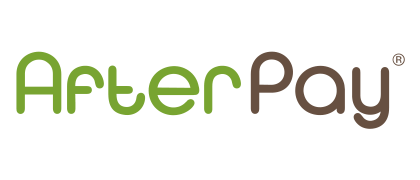
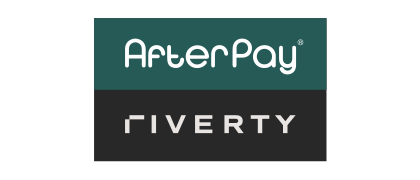
DAVAMS-539: Rebrand Afterpay - Riverty (#259)

diff --git a/src/catalog/controller/extension/payment/multisafepay.php b/src/catalog/controller/extension/payment/multisafepay.php
@@ -120,7 +120,47 @@ class ControllerExtensionPaymentMultiSafePay extends Controller {
     }
 
     /**
-     * Handles the confirm order form for Afterpay payment method
+     * Change the terms and conditions links for Riverty / Afterpay - Riverty payment
+     * according to the selected language and the billing country of the customer
+     *
+     * @phpcs:disabled ObjectCalisthenics.ControlStructures.NoElse
+     *
+     * @return string
+     */
+    public function afterPayGeoTerms() {
+        $terms = $this->language->get('entry_afterpay_terms');
+
+        if ($this->session->data['payment_address']['country_id']) {
+            $this->load->model('localisation/country');
+            $billing_country = $this->model_localisation_country->getCountry($this->session->data['payment_address']['country_id']);
+            $billing_code = strtolower($billing_country['iso_code_2']);
+            $language_code = strtolower($this->language->get('code'));
+
+            if (($billing_code === 'de') && (strpos($language_code, 'en') !== false)) {
+                $terms = str_replace('/nl_en/', '/de_en/', $terms);
+            } else if (($billing_code === 'at') && (strpos($language_code, 'de') !== false)) {
+                $terms = str_replace('/de_de/', '/at_de/', $terms);
+            } else if ($billing_code === 'at') {
+                $terms = str_replace('/nl_en/', '/at_en/', $terms);
+            } else if (($billing_code === 'ch') && (strpos($language_code, 'de') !== false)) {
+                $terms = str_replace('/de_de/', '/ch_de/', $terms);
+            } else if (($billing_code === 'ch') && (strpos($language_code, 'fr') !== false)) {
+                $terms = str_replace('/nl_en/', '/ch_fr/', $terms);
+            } else if ($billing_code === 'ch') {
+                $terms = str_replace('/nl_en/', '/ch_en/', $terms);
+            } else if (($billing_code === 'be') && (strpos($language_code, 'nl') !== false)) {
+                $terms = str_replace('/nl_nl/', '/be_nl/', $terms);
+            } else if (($billing_code === 'be') && (strpos($language_code, 'fr') !== false)) {
+                $terms = str_replace('/nl_en/', '/be_fr/', $terms);
+            } else if ($billing_code === 'be') {
+                $terms = str_replace('/nl_en/', '/be_en/', $terms);
+            }
+        }
+        return $terms;
+    }
+
+    /**
+     * Handles the confirm order form for Riverty / Afterpay - Riverty payment method
      */
     public function afterPay() {
         $data = $this->paymentMethodBase('AFTERPAY');
@@ -132,6 +172,8 @@ class ControllerExtensionPaymentMultiSafePay extends Controller {
                 'afterpay_terms' => true
 		    );
 	    }
+        $data['entry_afterpay_terms'] = $this->afterPayGeoTerms();
+
         return $this->multisafepay_version_control->getViewAccordingWithOcVersion($this->route . $this->view_extension_file, $data);
     }
 

diff --git a/src/catalog/controller/payment/multisafepay.php b/src/catalog/controller/payment/multisafepay.php
@@ -120,7 +120,47 @@ class ControllerExtensionPaymentMultiSafePay extends Controller {
     }
 
     /**
-     * Handles the confirm order form for Afterpay payment method
+     * Change the terms and conditions links for Riverty / Afterpay - Riverty payment
+     * according to the selected language and the billing country of the customer
+     *
+     * @phpcs:disabled ObjectCalisthenics.ControlStructures.NoElse
+     *
+     * @return string
+     */
+    public function afterPayGeoTerms() {
+        $terms = $this->language->get('entry_afterpay_terms');
+
+        if ($this->session->data['payment_address']['country_id']) {
+            $this->load->model('localisation/country');
+            $billing_country = $this->model_localisation_country->getCountry($this->session->data['payment_address']['country_id']);
+            $billing_code = strtolower($billing_country['iso_code_2']);
+            $language_code = strtolower($this->language->get('code'));
+
+            if (($billing_code === 'de') && (strpos($language_code, 'en') !== false)) {
+                $terms = str_replace('/nl_en/', '/de_en/', $terms);
+            } else if (($billing_code === 'at') && (strpos($language_code, 'de') !== false)) {
+                $terms = str_replace('/de_de/', '/at_de/', $terms);
+            } else if ($billing_code === 'at') {
+                $terms = str_replace('/nl_en/', '/at_en/', $terms);
+            } else if (($billing_code === 'ch') && (strpos($language_code, 'de') !== false)) {
+                $terms = str_replace('/de_de/', '/ch_de/', $terms);
+            } else if (($billing_code === 'ch') && (strpos($language_code, 'fr') !== false)) {
+                $terms = str_replace('/nl_en/', '/ch_fr/', $terms);
+            } else if ($billing_code === 'ch') {
+                $terms = str_replace('/nl_en/', '/ch_en/', $terms);
+            } else if (($billing_code === 'be') && (strpos($language_code, 'nl') !== false)) {
+                $terms = str_replace('/nl_nl/', '/be_nl/', $terms);
+            } else if (($billing_code === 'be') && (strpos($language_code, 'fr') !== false)) {
+                $terms = str_replace('/nl_en/', '/be_fr/', $terms);
+            } else if ($billing_code === 'be') {
+                $terms = str_replace('/nl_en/', '/be_en/', $terms);
+            }
+        }
+        return $terms;
+    }
+
+    /**
+     * Handles the confirm order form for Riverty / Afterpay - Riverty payment method
      */
     public function afterPay() {
         $data = $this->paymentMethodBase('AFTERPAY');
@@ -132,6 +172,8 @@ class ControllerExtensionPaymentMultiSafePay extends Controller {
                 'afterpay_terms' => true
 		    );
 	    }
+        $data['entry_afterpay_terms'] = $this->afterPayGeoTerms();
+
         return $this->multisafepay_version_control->getViewAccordingWithOcVersion($this->route . $this->view_extension_file, $data);
     }
 

diff --git a/src/admin/language/it-it/extension/payment/multisafepay.php b/src/admin/language/it-it/extension/payment/multisafepay.php
@@ -152,7 +152,7 @@ $_['tab_options']       		 	                    = 'Opzioni';
 $_['tab_maintenance']       		                    = 'Manutenzione';
 $_['button_remove']                                     = 'Rimozione documenti';
 $_['text_title_multisafepay']                           = 'MultiSafepay';
-$_['text_title_afterpay']                               = 'AfterPay';
+$_['text_title_afterpay']                               = 'Riverty';
 $_['text_title_amazon_pay']                             = 'Amazon Pay';
 $_['text_title_american_express']                       = 'American Express';
 $_['text_title_alipay']                                 = 'Alipay';
@@ -251,7 +251,7 @@ $_['text_help_drag_and_drop']                           = 'Trascina e rilascia q
 $_['text_help_generate_payment_links_status']           = 'Maggiori informazioni su come generare un ordine con link di pagamento in la nostra <a href="https://docs.multisafepay.com/docs/payment-links" target="_blank">documentazione</a>';
 $_['text_help_generate_payment_links']                  = 'Se si genera un ordine dall\'amministrazione OpenCart e si assegna lo stato dell\'ordine selezionato nel campo successivo, l\'utente riceverà i dettagli dell\'ordine per posta, incluso un collegamento di pagamento.';
 $_['text_help_lifetime_payment_link']				    = 'Ciò indica la durata di un collegamento di pagamento. L\'impostazione predefinita è 30 giorni. Ciò significa che il cliente ha 30 giorni di tempo per completare la transazione utilizzando il link di pagamento';
-$_['text_help_shopping_cart_disabled']				    = 'Seleziona "Sì" per nascondere gli articoli del carrello nella pagina di pagamento MultiSafepay, lasciando solo l\'importo totale dell\'ordine. <br />Se selezioni "Sì" i metodi di pagamento che richiedono il carrello non funzioneranno: Afterpay, E-Invoicing, in3, Klarna and Pay After Delivery.';
+$_['text_help_shopping_cart_disabled']				    = 'Seleziona "Sì" per nascondere gli articoli del carrello nella pagina di pagamento MultiSafepay, lasciando solo l\'importo totale dell\'ordine. <br />Se selezioni "Sì" i metodi di pagamento che richiedono il carrello non funzioneranno: Riverty, E-Invoicing, in3, Klarna and Pay After Delivery.';
 $_['text_help_custom_order_total_keys']				    = 'Compila con il/i codice/i d\'ordine totale personalizzato che non dovrebbe essere visibile nella pagina di pagamento di MultiSafepay. Usa un punto e virgola (;) per separare i valori';
 $_['error_permission']				                    = 'Avviso: non hai il permesso di modificare le informazioni per i pagamenti MultiSafepay';
 $_['error_check_form']   		                        = 'Avviso: per favore, controlla attentamente il form e controlla le notifiche degli errori';

diff --git a/src/admin/language/it-it/payment/multisafepay.php b/src/admin/language/it-it/payment/multisafepay.php
@@ -152,7 +152,7 @@ $_['tab_options']       		 	                    = 'Opzioni';
 $_['tab_maintenance']       		                    = 'Manutenzione';
 $_['button_remove']                                     = 'Rimozione documenti';
 $_['text_title_multisafepay']                           = 'MultiSafepay';
-$_['text_title_afterpay']                               = 'AfterPay';
+$_['text_title_afterpay']                               = 'Riverty';
 $_['text_title_amazon_pay']                             = 'Amazon Pay';
 $_['text_title_american_express']                       = 'American Express';
 $_['text_title_alipay']                                 = 'Alipay';
@@ -251,7 +251,7 @@ $_['text_help_drag_and_drop']                           = 'Trascina e rilascia q
 $_['text_help_generate_payment_links_status']           = 'Maggiori informazioni su come generare un ordine con link di pagamento in la nostra <a href="https://docs.multisafepay.com/docs/payment-links" target="_blank">documentazione</a>';
 $_['text_help_generate_payment_links']                  = 'Se si genera un ordine dall\'amministrazione OpenCart e si assegna lo stato dell\'ordine selezionato nel campo successivo, l\'utente riceverà i dettagli dell\'ordine per posta, incluso un collegamento di pagamento.';
 $_['text_help_lifetime_payment_link']				    = 'Ciò indica la durata di un collegamento di pagamento. L\'impostazione predefinita è 30 giorni. Ciò significa che il cliente ha 30 giorni di tempo per completare la transazione utilizzando il link di pagamento';
-$_['text_help_shopping_cart_disabled']				    = 'Seleziona "Sì" per nascondere gli articoli del carrello nella pagina di pagamento MultiSafepay, lasciando solo l\'importo totale dell\'ordine. <br />Se selezioni "Sì" i metodi di pagamento che richiedono il carrello non funzioneranno: Afterpay, E-Invoicing, in3, Klarna and Pay After Delivery.';
+$_['text_help_shopping_cart_disabled']				    = 'Seleziona "Sì" per nascondere gli articoli del carrello nella pagina di pagamento MultiSafepay, lasciando solo l\'importo totale dell\'ordine. <br />Se selezioni "Sì" i metodi di pagamento che richiedono il carrello non funzioneranno: Riverty, E-Invoicing, in3, Klarna and Pay After Delivery.';
 $_['text_help_custom_order_total_keys']				    = 'Compila con il/i codice/i d\'ordine totale personalizzato che non dovrebbe essere visibile nella pagina di pagamento di MultiSafepay. Usa un punto e virgola (;) per separare i valori';
 $_['error_permission']				                    = 'Avviso: non hai il permesso di modificare le informazioni per i pagamenti MultiSafepay';
 $_['error_check_form']   		                        = 'Avviso: per favore, controlla attentamente il form e controlla le notifiche degli errori';

diff --git a/src/admin/language/italian/payment/multisafepay.php b/src/admin/language/italian/payment/multisafepay.php
@@ -152,7 +152,7 @@ $_['tab_options']       		 	                    = 'Opzioni';
 $_['tab_maintenance']       		                    = 'Manutenzione';
 $_['button_remove']                                     = 'Rimozione documenti';
 $_['text_title_multisafepay']                           = 'MultiSafepay';
-$_['text_title_afterpay']                               = 'AfterPay';
+$_['text_title_afterpay']                               = 'Riverty';
 $_['text_title_amazon_pay']                             = 'Amazon Pay';
 $_['text_title_american_express']                       = 'American Express';
 $_['text_title_alipay']                                 = 'Alipay';
@@ -251,7 +251,7 @@ $_['text_help_drag_and_drop']                           = 'Trascina e rilascia q
 $_['text_help_generate_payment_links_status']           = 'Maggiori informazioni su come generare un ordine con link di pagamento in la nostra <a href="https://docs.multisafepay.com/docs/payment-links" target="_blank">documentazione</a>';
 $_['text_help_generate_payment_links']                  = 'Se si genera un ordine dall\'amministrazione OpenCart e si assegna lo stato dell\'ordine selezionato nel campo successivo, l\'utente riceverà i dettagli dell\'ordine per posta, incluso un collegamento di pagamento.';
 $_['text_help_lifetime_payment_link']				    = 'Ciò indica la durata di un collegamento di pagamento. L\'impostazione predefinita è 30 giorni. Ciò significa che il cliente ha 30 giorni di tempo per completare la transazione utilizzando il link di pagamento';
-$_['text_help_shopping_cart_disabled']				    = 'Seleziona "Sì" per nascondere gli articoli del carrello nella pagina di pagamento MultiSafepay, lasciando solo l\'importo totale dell\'ordine. <br />Se selezioni "Sì" i metodi di pagamento che richiedono il carrello non funzioneranno: Afterpay, E-Invoicing, in3, Klarna and Pay After Delivery.';
+$_['text_help_shopping_cart_disabled']				    = 'Seleziona "Sì" per nascondere gli articoli del carrello nella pagina di pagamento MultiSafepay, lasciando solo l\'importo totale dell\'ordine. <br />Se selezioni "Sì" i metodi di pagamento che richiedono il carrello non funzioneranno: Riverty, E-Invoicing, in3, Klarna and Pay After Delivery.';
 $_['text_help_custom_order_total_keys']				    = 'Compila con il/i codice/i d\'ordine totale personalizzato che non dovrebbe essere visibile nella pagina di pagamento di MultiSafepay. Usa un punto e virgola (;) per separare i valori';
 $_['error_permission']				                    = 'Avviso: non hai il permesso di modificare le informazioni per i pagamenti MultiSafepay';
 $_['error_check_form']   		                        = 'Avviso: per favore, controlla attentamente il form e controlla le notifiche degli errori';

diff --git a/src/admin/language/de-de/extension/payment/multisafepay.php b/src/admin/language/de-de/extension/payment/multisafepay.php
@@ -152,7 +152,7 @@ $_['tab_options']       		 	                    = 'Optionen';
 $_['tab_maintenance']       		                    = 'Dateien entfernen';
 $_['button_remove']                                     = 'Remove files';
 $_['text_title_multisafepay']                           = 'MultiSafepay';
-$_['text_title_afterpay']                               = 'AfterPay';
+$_['text_title_afterpay']                               = 'Riverty';
 $_['text_title_amazon_pay']                             = 'Amazon Pay';
 $_['text_title_american_express']                       = 'American Express';
 $_['text_title_alipay']                                 = 'Alipay';
@@ -252,7 +252,7 @@ $_['text_help_drag_and_drop']                           = 'Ziehen Sie dieses Ele
 $_['text_help_generate_payment_links_status']           = 'Weitere Informationen zum Generieren einer Bestellung mit Zahlungslink finden Sie in unserer <a href="https://docs.multisafepay.com/docs/payment-links" target="_blank">Dokumentation</a>';
 $_['text_help_generate_payment_links']                  = 'Wenn Sie eine Bestellung aus der OpenCart-Administration generieren und den im folgenden Feld ausgewählten Bestellstatus zuweisen, erhält der Benutzer die Bestelldetails per E-Mail, einschließlich eines Zahlungslinks';
 $_['text_help_lifetime_payment_link']				    = 'Dies zeigt die Lebensdauer eines Zahlungslinks an. Standardmäßig sind es 30 Tage. Dies bedeutet, dass der Kunde 30 Tage Zeit hat, um die Transaktion über den Zahlungslink abzuschließen';
-$_['text_help_shopping_cart_disabled']				    = 'Wählen Sie "Ja", um die Warenkorbartikel auf der MultiSafepay-Zahlungsseite auszublenden, sodass nur der Gesamtbestellbetrag übrig bleibt. <br />Wenn Sie "Ja" auswählen, funktionieren die Zahlungsmethoden, die einen Warenkorb erfordern, nicht: Afterpay, E-Invoicing, in3, Klarna and Pay After Delivery.';
+$_['text_help_shopping_cart_disabled']				    = 'Wählen Sie "Ja", um die Warenkorbartikel auf der MultiSafepay-Zahlungsseite auszublenden, sodass nur der Gesamtbestellbetrag übrig bleibt. <br />Wenn Sie "Ja" auswählen, funktionieren die Zahlungsmethoden, die einen Warenkorb erfordern, nicht: Riverty, E-Invoicing, in3, Klarna and Pay After Delivery.';
 $_['text_help_custom_order_total_keys']				    = 'Geben Sie den/die benutzerdefinierten Gesamtbestellcode(s) ein, die auf der MultiSafepay-Zahlungsseite nicht sichtbar sein sollen. Verwenden Sie ein Semikolon (;), um Werte zu trennen';
 $_['error_permission']				                    = 'Warnung: Sie haben keine Berechtigung zur Änderung der Zahlungsweise MultiSafepay';
 $_['error_check_form']   		                        = 'Warnung: Bitte das Formular sorgfältig prüfen und nach Fehlermeldungen suchen';

diff --git a/src/admin/language/de-de/payment/multisafepay.php b/src/admin/language/de-de/payment/multisafepay.php
@@ -152,7 +152,7 @@ $_['tab_options']       		 	                    = 'Optionen';
 $_['tab_maintenance']       		                    = 'Dateien entfernen';
 $_['button_remove']                                     = 'Remove files';
 $_['text_title_multisafepay']                           = 'MultiSafepay';
-$_['text_title_afterpay']                               = 'AfterPay';
+$_['text_title_afterpay']                               = 'Riverty';
 $_['text_title_amazon_pay']                             = 'Amazon Pay';
 $_['text_title_american_express']                       = 'American Express';
 $_['text_title_alipay']                                 = 'Alipay';
@@ -252,7 +252,7 @@ $_['text_help_drag_and_drop']                           = 'Ziehen Sie dieses Ele
 $_['text_help_generate_payment_links_status']           = 'Weitere Informationen zum Generieren einer Bestellung mit Zahlungslink finden Sie in unserer <a href="https://docs.multisafepay.com/docs/payment-links" target="_blank">Dokumentation</a>';
 $_['text_help_generate_payment_links']                  = 'Wenn Sie eine Bestellung aus der OpenCart-Administration generieren und den im folgenden Feld ausgewählten Bestellstatus zuweisen, erhält der Benutzer die Bestelldetails per E-Mail, einschließlich eines Zahlungslinks';
 $_['text_help_lifetime_payment_link']				    = 'Dies zeigt die Lebensdauer eines Zahlungslinks an. Standardmäßig sind es 30 Tage. Dies bedeutet, dass der Kunde 30 Tage Zeit hat, um die Transaktion über den Zahlungslink abzuschließen';
-$_['text_help_shopping_cart_disabled']				    = 'Wählen Sie "Ja", um die Warenkorbartikel auf der MultiSafepay-Zahlungsseite auszublenden, sodass nur der Gesamtbestellbetrag übrig bleibt. <br />Wenn Sie "Ja" auswählen, funktionieren die Zahlungsmethoden, die einen Warenkorb erfordern, nicht: Afterpay, E-Invoicing, in3, Klarna and Pay After Delivery.';
+$_['text_help_shopping_cart_disabled']				    = 'Wählen Sie "Ja", um die Warenkorbartikel auf der MultiSafepay-Zahlungsseite auszublenden, sodass nur der Gesamtbestellbetrag übrig bleibt. <br />Wenn Sie "Ja" auswählen, funktionieren die Zahlungsmethoden, die einen Warenkorb erfordern, nicht: Riverty, E-Invoicing, in3, Klarna and Pay After Delivery.';
 $_['text_help_custom_order_total_keys']				    = 'Geben Sie den/die benutzerdefinierten Gesamtbestellcode(s) ein, die auf der MultiSafepay-Zahlungsseite nicht sichtbar sein sollen. Verwenden Sie ein Semikolon (;), um Werte zu trennen';
 $_['error_permission']				                    = 'Warnung: Sie haben keine Berechtigung zur Änderung der Zahlungsweise MultiSafepay';
 $_['error_check_form']   		                        = 'Warnung: Bitte das Formular sorgfältig prüfen und nach Fehlermeldungen suchen';

diff --git a/src/admin/language/deutsch/payment/multisafepay.php b/src/admin/language/deutsch/payment/multisafepay.php
@@ -152,7 +152,7 @@ $_['tab_options']       		 	                    = 'Optionen';
 $_['tab_maintenance']       		                    = 'Dateien entfernen';
 $_['button_remove']                                     = 'Remove files';
 $_['text_title_multisafepay']                           = 'MultiSafepay';
-$_['text_title_afterpay']                               = 'AfterPay';
+$_['text_title_afterpay']                               = 'Riverty';
 $_['text_title_amazon_pay']                             = 'Amazon Pay';
 $_['text_title_american_express']                       = 'American Express';
 $_['text_title_alipay']                                 = 'Alipay';
@@ -252,7 +252,7 @@ $_['text_help_drag_and_drop']                           = 'Ziehen Sie dieses Ele
 $_['text_help_generate_payment_links_status']           = 'Weitere Informationen zum Generieren einer Bestellung mit Zahlungslink finden Sie in unserer <a href="https://docs.multisafepay.com/docs/payment-links" target="_blank">Dokumentation</a>';
 $_['text_help_generate_payment_links']                  = 'Wenn Sie eine Bestellung aus der OpenCart-Administration generieren und den im folgenden Feld ausgewählten Bestellstatus zuweisen, erhält der Benutzer die Bestelldetails per E-Mail, einschließlich eines Zahlungslinks';
 $_['text_help_lifetime_payment_link']				    = 'Dies zeigt die Lebensdauer eines Zahlungslinks an. Standardmäßig sind es 30 Tage. Dies bedeutet, dass der Kunde 30 Tage Zeit hat, um die Transaktion über den Zahlungslink abzuschließen';
-$_['text_help_shopping_cart_disabled']				    = 'Wählen Sie "Ja", um die Warenkorbartikel auf der MultiSafepay-Zahlungsseite auszublenden, sodass nur der Gesamtbestellbetrag übrig bleibt. <br />Wenn Sie "Ja" auswählen, funktionieren die Zahlungsmethoden, die einen Warenkorb erfordern, nicht: Afterpay, E-Invoicing, in3, Klarna and Pay After Delivery.';
+$_['text_help_shopping_cart_disabled']				    = 'Wählen Sie "Ja", um die Warenkorbartikel auf der MultiSafepay-Zahlungsseite auszublenden, sodass nur der Gesamtbestellbetrag übrig bleibt. <br />Wenn Sie "Ja" auswählen, funktionieren die Zahlungsmethoden, die einen Warenkorb erfordern, nicht: Riverty, E-Invoicing, in3, Klarna and Pay After Delivery.';
 $_['text_help_custom_order_total_keys']				    = 'Geben Sie den/die benutzerdefinierten Gesamtbestellcode(s) ein, die auf der MultiSafepay-Zahlungsseite nicht sichtbar sein sollen. Verwenden Sie ein Semikolon (;), um Werte zu trennen';
 $_['error_permission']				                    = 'Warnung: Sie haben keine Berechtigung zur Änderung der Zahlungsweise MultiSafepay';
 $_['error_check_form']   		                        = 'Warnung: Bitte das Formular sorgfältig prüfen und nach Fehlermeldungen suchen';

diff --git a/src/admin/language/es/extension/payment/multisafepay.php b/src/admin/language/es/extension/payment/multisafepay.php
@@ -153,7 +153,7 @@ $_['tab_options']       		 	                    = 'Opciones';
 $_['tab_maintenance']       		                    = 'Mantenimiento';
 $_['button_remove']                                     = 'Eliminar archivos';
 $_['text_title_multisafepay']                           = 'MultiSafepay';
-$_['text_title_afterpay']                               = 'AfterPay';
+$_['text_title_afterpay']                               = 'Riverty';
 $_['text_title_amazon_pay']                             = 'Amazon Pay';
 $_['text_title_american_express']                       = 'American Express';
 $_['text_title_alipay']                                 = 'Alipay';
@@ -253,7 +253,7 @@ $_['text_help_drag_and_drop']                           = 'Arrastre y suelte est
 $_['text_help_generate_payment_links_status']           = 'Más información sobre cómo generar un pedido con enlace de pago en nuestra <a href="https://docs.multisafepay.com/docs/payment-links" target="_blank">documentación</a>';
 $_['text_help_generate_payment_links']                  = 'Si generas un pedido desde la administración de OpenCart, y le asignes el estado de pedido seleccionado en el siguiente campo, el usuario recibira en el correo, los detalles del pedido, incluyendo un enlace de pago';
 $_['text_help_lifetime_payment_link']				    = 'Esto indica la vida útil de un enlace de pago. El valor predeterminado es 30 días. Esto significa que el cliente tiene 30 días para completar la transacción mediante el enlace de pago.';
-$_['text_help_shopping_cart_disabled']				    = 'Seleccione "Sí" para ocultar los artículos del carrito en la página de pago de MultiSafepay, dejando solo el monto total del pedido. <br />Si selecciona "Sí", los métodos de pago que requieren carrito de compras no funcionarán: Afterpay, E-Invoicing, in3, Klarna and Pay After Delivery.';
+$_['text_help_shopping_cart_disabled']				    = 'Seleccione "Sí" para ocultar los artículos del carrito en la página de pago de MultiSafepay, dejando solo el monto total del pedido. <br />Si selecciona "Sí", los métodos de pago que requieren carrito de compras no funcionarán: Riverty, E-Invoicing, in3, Klarna and Pay After Delivery.';
 $_['text_help_custom_order_total_keys']				    = 'Complete con el (los) código(s) de pedido total personalizado que no deberían estar visibles en la página de pago de MultiSafepay. Use un punto y coma (;) para separar valores';
 $_['error_permission']				                    = 'Advertencia: no tiene permiso para modificar la extensión de MultiSafepay!';
 $_['error_check_form']   		                        = 'Advertencia: por favor, revise el formulario cuidadosamente y busque mensajes de error';

diff --git a/src/admin/language/es/payment/multisafepay.php b/src/admin/language/es/payment/multisafepay.php
@@ -153,7 +153,7 @@ $_['tab_options']       		 	                    = 'Opciones';
 $_['tab_maintenance']       		                    = 'Mantenimiento';
 $_['button_remove']                                     = 'Eliminar archivos';
 $_['text_title_multisafepay']                           = 'MultiSafepay';
-$_['text_title_afterpay']                               = 'AfterPay';
+$_['text_title_afterpay']                               = 'Riverty';
 $_['text_title_amazon_pay']                             = 'Amazon Pay';
 $_['text_title_american_express']                       = 'American Express';
 $_['text_title_alipay']                                 = 'Alipay';
@@ -253,7 +253,7 @@ $_['text_help_drag_and_drop']                           = 'Arrastre y suelte est
 $_['text_help_generate_payment_links_status']           = 'Más información sobre cómo generar un pedido con enlace de pago en nuestra <a href="https://docs.multisafepay.com/docs/payment-links" target="_blank">documentación</a>';
 $_['text_help_generate_payment_links']                  = 'Si generas un pedido desde la administración de OpenCart, y le asignes el estado de pedido seleccionado en el siguiente campo, el usuario recibira en el correo, los detalles del pedido, incluyendo un enlace de pago';
 $_['text_help_lifetime_payment_link']				    = 'Esto indica la vida útil de un enlace de pago. El valor predeterminado es 30 días. Esto significa que el cliente tiene 30 días para completar la transacción mediante el enlace de pago.';
-$_['text_help_shopping_cart_disabled']				    = 'Seleccione "Sí" para ocultar los artículos del carrito en la página de pago de MultiSafepay, dejando solo el monto total del pedido. <br />Si selecciona "Sí", los métodos de pago que requieren carrito de compras no funcionarán: Afterpay, E-Invoicing, in3, Klarna and Pay After Delivery.';
+$_['text_help_shopping_cart_disabled']				    = 'Seleccione "Sí" para ocultar los artículos del carrito en la página de pago de MultiSafepay, dejando solo el monto total del pedido. <br />Si selecciona "Sí", los métodos de pago que requieren carrito de compras no funcionarán: Riverty, E-Invoicing, in3, Klarna and Pay After Delivery.';
 $_['text_help_custom_order_total_keys']				    = 'Complete con el (los) código(s) de pedido total personalizado que no deberían estar visibles en la página de pago de MultiSafepay. Use un punto y coma (;) para separar valores';
 $_['error_permission']				                    = 'Advertencia: no tiene permiso para modificar la extensión de MultiSafepay!';
 $_['error_check_form']   		                        = 'Advertencia: por favor, revise el formulario cuidadosamente y busque mensajes de error';

diff --git a/src/admin/language/spanish/payment/multisafepay.php b/src/admin/language/spanish/payment/multisafepay.php
@@ -153,7 +153,7 @@ $_['tab_options']       		 	                    = 'Opciones';
 $_['tab_maintenance']       		                    = 'Mantenimiento';
 $_['button_remove']                                     = 'Eliminar archivos';
 $_['text_title_multisafepay']                           = 'MultiSafepay';
-$_['text_title_afterpay']                               = 'AfterPay';
+$_['text_title_afterpay']                               = 'Riverty';
 $_['text_title_amazon_pay']                             = 'Amazon Pay';
 $_['text_title_american_express']                       = 'American Express';
 $_['text_title_alipay']                                 = 'Alipay';
@@ -253,7 +253,7 @@ $_['text_help_drag_and_drop']                           = 'Arrastre y suelte est
 $_['text_help_generate_payment_links_status']           = 'Más información sobre cómo generar un pedido con enlace de pago en nuestra <a href="https://docs.multisafepay.com/docs/payment-links" target="_blank">documentación</a>';
 $_['text_help_generate_payment_links']                  = 'Si generas un pedido desde la administración de OpenCart, y le asignes el estado de pedido seleccionado en el siguiente campo, el usuario recibira en el correo, los detalles del pedido, incluyendo un enlace de pago';
 $_['text_help_lifetime_payment_link']				    = 'Esto indica la vida útil de un enlace de pago. El valor predeterminado es 30 días. Esto significa que el cliente tiene 30 días para completar la transacción mediante el enlace de pago.';
-$_['text_help_shopping_cart_disabled']				    = 'Seleccione "Sí" para ocultar los artículos del carrito en la página de pago de MultiSafepay, dejando solo el monto total del pedido. <br />Si selecciona "Sí", los métodos de pago que requieren carrito de compras no funcionarán: Afterpay, E-Invoicing, in3, Klarna and Pay After Delivery.';
+$_['text_help_shopping_cart_disabled']				    = 'Seleccione "Sí" para ocultar los artículos del carrito en la página de pago de MultiSafepay, dejando solo el monto total del pedido. <br />Si selecciona "Sí", los métodos de pago que requieren carrito de compras no funcionarán: Riverty, E-Invoicing, in3, Klarna and Pay After Delivery.';
 $_['text_help_custom_order_total_keys']				    = 'Complete con el (los) código(s) de pedido total personalizado que no deberían estar visibles en la página de pago de MultiSafepay. Use un punto y coma (;) para separar valores';
 $_['error_permission']				                    = 'Advertencia: no tiene permiso para modificar la extensión de MultiSafepay!';
 $_['error_check_form']   		                        = 'Advertencia: por favor, revise el formulario cuidadosamente y busque mensajes de error';

diff --git a/src/admin/language/dutch/payment/multisafepay.php b/src/admin/language/dutch/payment/multisafepay.php
@@ -154,7 +154,7 @@ $_['tab_options']       		 	                    = 'Opties';
 $_['tab_maintenance']       		                    = 'Onderhoud';
 $_['button_remove']                                     = 'Bestanden verwijderen';
 $_['text_title_multisafepay']                           = 'MultiSafepay';
-$_['text_title_afterpay']                               = 'AfterPay';
+$_['text_title_afterpay']                               = 'AfterPay - Riverty';
 $_['text_title_amazon_pay']                             = 'Amazon Pay';
 $_['text_title_american_express']                       = 'American Express';
 $_['text_title_alipay']                                 = 'Alipay';
@@ -254,7 +254,7 @@ $_['text_help_drag_and_drop']                           = 'Sleep dit element en 
 $_['text_help_generate_payment_links_status']           = 'Meer informatie over het genereren van een bestelling met betalingslink vindt u in onze <a href="https://docs.multisafepay.com/docs/payment-links" target="_blank">documentatie</a>';
 $_['text_help_generate_payment_links']                  = 'Als u een bestelling genereert vanuit de OpenCart-administratie en de bestelstatus toewijst die is geselecteerd in het volgende veld, ontvangt de gebruiker de bestelgegevens in de e-mail, inclusief een betalingslink';
 $_['text_help_lifetime_payment_link']				    = 'Dit geeft de levensduur van een betaallink aan. Standaard is 30 dagen. Dit betekent dat de klant 30 dagen de tijd heeft om de transactie af te ronden via de betaallink';
-$_['text_help_shopping_cart_disabled']				    = 'Selecteer "Ja" om de winkelwagenitems op de MultiSafepay-betaalpagina te verbergen, zodat alleen het totale orderbedrag overblijft. <br />Als u "Ja" selecteert, werken de betaalmethoden waarvoor een winkelwagentje nodig is niet: Afterpay, E-Invoicing, in3, Klarna and Pay After Delivery.';
+$_['text_help_shopping_cart_disabled']				    = 'Selecteer "Ja" om de winkelwagenitems op de MultiSafepay-betaalpagina te verbergen, zodat alleen het totale orderbedrag overblijft. <br />Als u "Ja" selecteert, werken de betaalmethoden waarvoor een winkelwagentje nodig is niet: Afterpay - Riverty, E-Invoicing, in3, Klarna and Pay After Delivery.';
 $_['text_help_custom_order_total_keys']				    = 'Vul de aangepaste totaalbestelcode(s) in die niet zichtbaar mogen zijn op de MultiSafepay-betaalpagina. Gebruik een puntkomma (;) om waarden te scheiden';
 $_['error_permission']				                    = 'Waarschuwing: U heeft geen toestemming om betaalmethode MultiSafepay te wijzigen';
 $_['error_check_form']   		                        = 'Waarschuwing: Controleer het formulier graag nogmaals en let op foutmeldingen';
